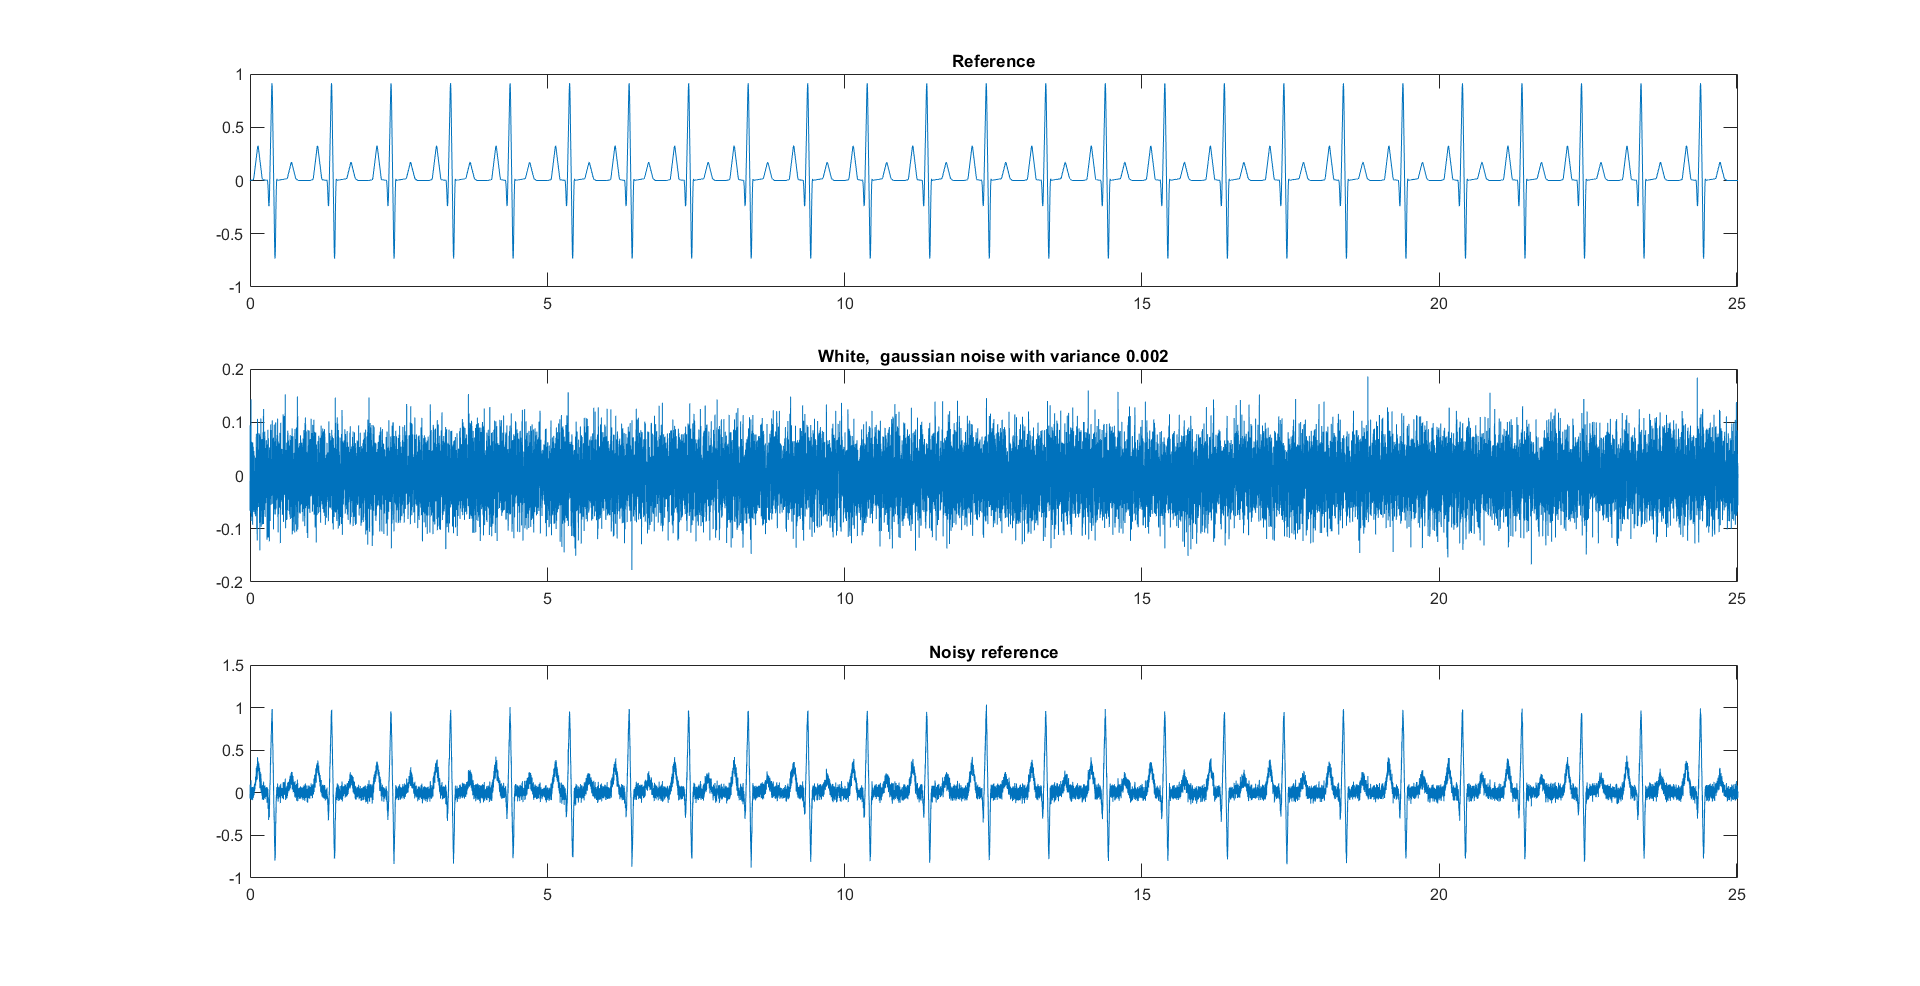
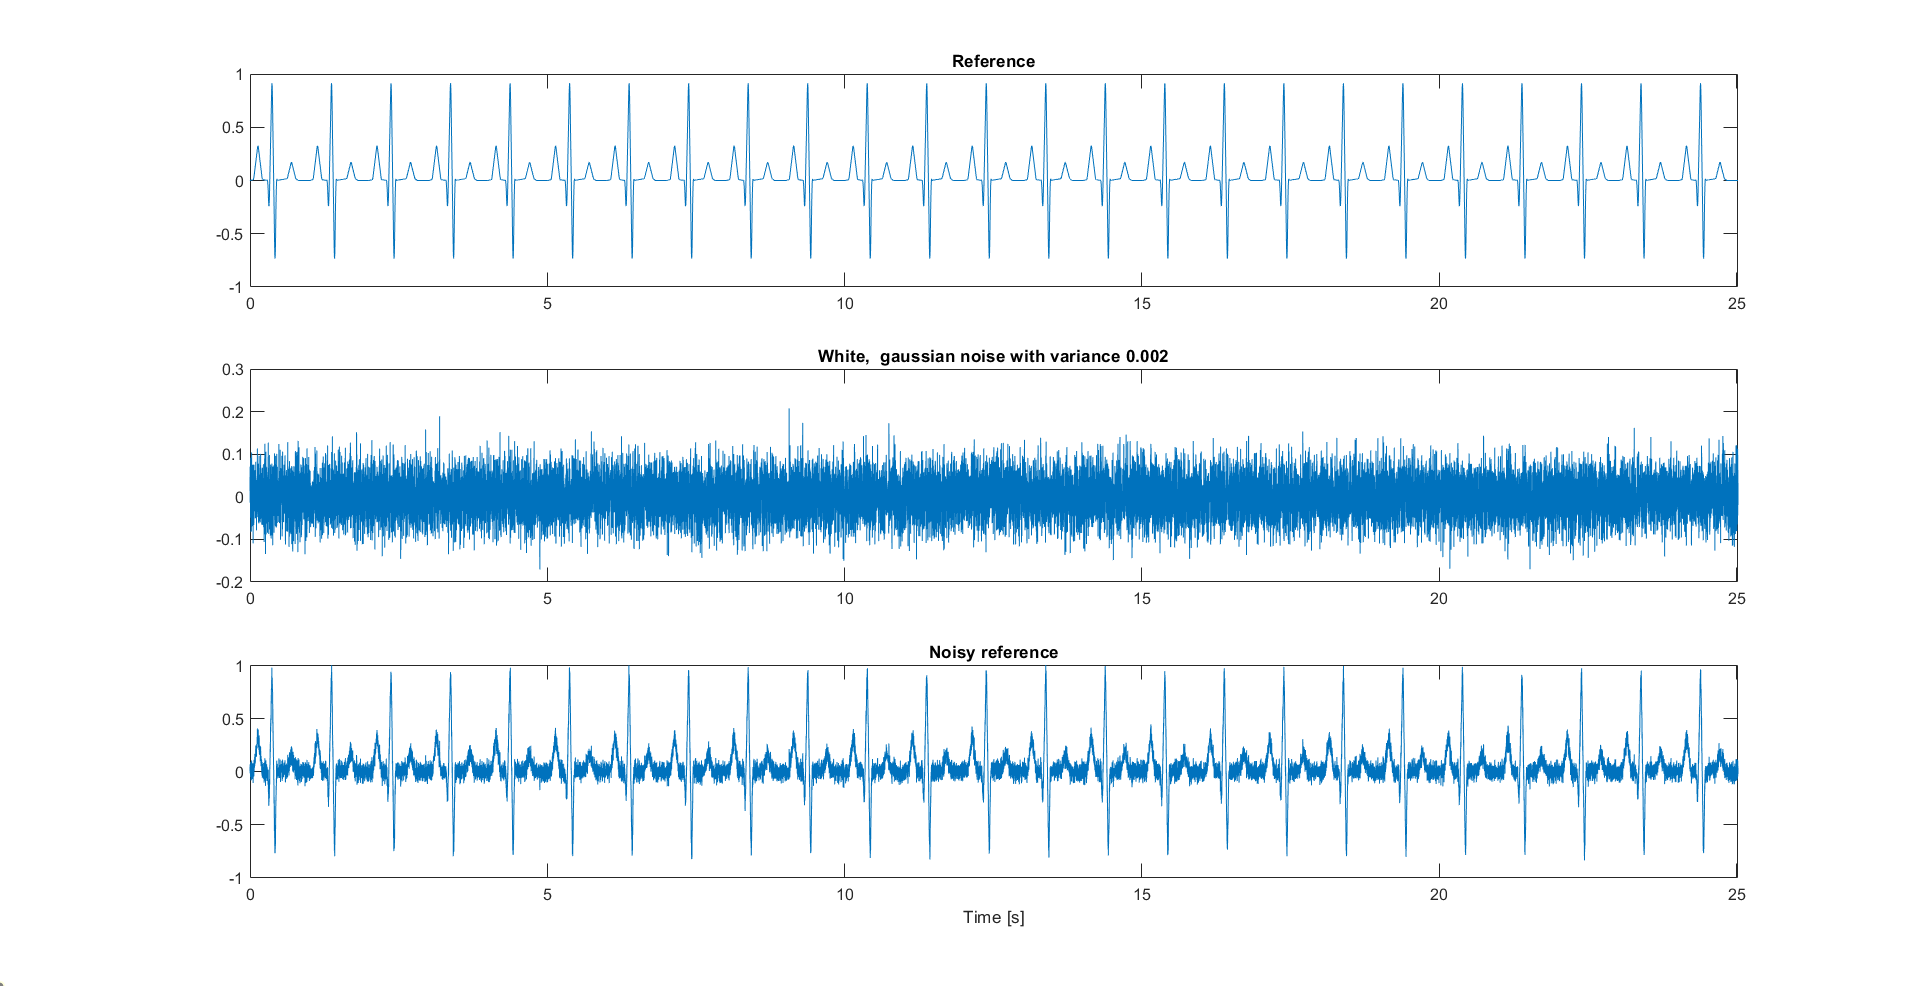
cerrected images

Changed region(s): [[0.125, 0.3955, 0.9062, 0.5781], [0.125, 0.7302, 0.9062, 0.8215], [0.5, 0.9128, 0.5312, 0.9432]]

diff --git a/main_preprocessing.m b/main_preprocessing.m
@@ -109,7 +109,7 @@ addpath(src_path)
 % thresholding plus digital filter. These method will be evaluated using
 % didactical examples.
 close;clc;close all; % cleaning environment
-show_filter_pipeline_syntetic("baseline_drift")
+show_filter_pipeline_syntetic("white_noise_stationary_var_fix")
 
 % Other example of situations: 
 %baseline_drift white_noise_stationary_var_fix
@@ -118,7 +118,7 @@ show_filter_pipeline_syntetic("baseline_drift")
 % Preprocessin pipeline is then applied on didactical examples. Then,
 % spectrums are evaluated. 
 close;clc;close all; % cleaning environment
-show_filter_pipeline_didactical("Low_frequency_ecg") 
+show_filter_pipeline_didactical("high_frequency_ecg") 
 
 % Other example of situations: 
 % "high_frequency_ecg" "Low_frequency_ecg" "PhysioNet_healthy" "PhysioNet_Pathological"

diff --git a/src/Spectrum_comparison_phase/show_filter_pipeline_didactical.m b/src/Spectrum_comparison_phase/show_filter_pipeline_didactical.m
@@ -65,7 +65,7 @@ subplot(313)
 plot(t, reference_sup)
 xlim([0,t(end)])
 title('Extracted reference')
-
+xlabel('Time [s]')
 
 %% Starting of simulation
 N_original = length(x_original);
@@ -112,7 +112,7 @@ for i = 1: length(N_points)
     SNR_bandpass= 10*log10(P_bp/P_noise_residual_bp);
 
 
-    figure(i+1)
+    figure(i+2)
     hold on
     sgtitle("Denoising pipeline, N° points: "+num2str(N_points(i)+", "+name))
     plot(t,x,"Color",[.5,.5,.5],"LineStyle",":","LineWidth",0.5)

diff --git a/src/Spectrum_comparison_phase/show_filter_pipeline_syntetic.m b/src/Spectrum_comparison_phase/show_filter_pipeline_syntetic.m
@@ -54,6 +54,7 @@ subplot(313)
 plot(t, noisy_ecg)
 xlim([0,t(end)])
 title('Noisy reference')
+xlabel('Time [s]')
 
 %% Starting of simulation
 N_original = length(noisy_ecg);
